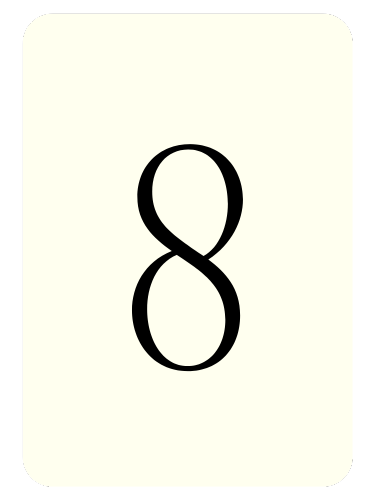
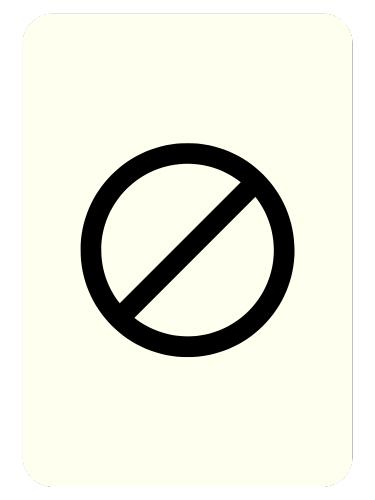
feat: added two special card -BETA

Changed region(s): [[0.2053, 0.27, 0.792, 0.75]]

diff --git a/src/application/GameScene.java b/src/application/GameScene.java
@@ -309,14 +309,27 @@ public class GameScene {
 	        
 	        writer.close();
 	        
-	        if(this.currentPlayerIndex < this.playerArray.size() - 1) {
-	        	this.currentPlayerIndex = this.currentPlayerIndex + 1;
-	        } else {
-	        	this.currentPlayerIndex = 0;
-	        }
+            if(this.gameCard.toString().contains("9")) {
+		        if(this.currentPlayerIndex < this.playerArray.size() - 2) {
+		        	this.currentPlayerIndex = this.currentPlayerIndex + 2;
+		        } else {
+		        	this.currentPlayerIndex = 0;
+		        }
+		        
+		        System.out.println("CURRENT INDEX: " + this.currentPlayerIndex);
+		        
+		        this.currentPlayer = this.playerArray.get(this.currentPlayerIndex);
+            } else {
+		        if(this.currentPlayerIndex < this.playerArray.size() - 1) {
+		        	this.currentPlayerIndex = this.currentPlayerIndex + 1;
+		        } else {
+		        	this.currentPlayerIndex = 0;
+		        }
+		        
+		        this.currentPlayer = this.playerArray.get(this.currentPlayerIndex);
+            }
 	        
 	        System.out.println(this.currentPlayerIndex + " ---- " + this.playerArray.get(this.currentPlayerIndex));
-	        this.currentPlayer = this.playerArray.get(this.currentPlayerIndex);
 	        this.getPlayerCard();
 	        
 	        
@@ -333,6 +346,8 @@ public class GameScene {
 			valid = Integer.parseInt(this.gameCard) + 1;
 		}
 		if(this.gameCard.contains("9")) { valid = card; }
+		if(this.gameCard.contains("7")) { valid = card; }
+		if(this.gameCard.contains("8")) { valid = card; }
 		
 		if(this.gameCard.equals("back") || card == valid) {
 			this.gameCard = card.toString();
@@ -408,14 +423,26 @@ public class GameScene {
 	            }
 	            
 	            writer.close();
-	           
-		        if(this.currentPlayerIndex < this.playerArray.size() - 1) {
-		        	this.currentPlayerIndex = this.currentPlayerIndex + 1;
-		        } else {
-		        	this.currentPlayerIndex = 0;
-		        }
-		        
-		        this.currentPlayer = this.playerArray.get(this.currentPlayerIndex);
+	            
+	            if(card.toString().contains("9")) {
+			        if(this.currentPlayerIndex < this.playerArray.size() - 2) {
+			        	this.currentPlayerIndex = this.currentPlayerIndex + 2;
+			        } else {
+			        	this.currentPlayerIndex = 0;
+			        }
+			        
+			        System.out.println("CURRENT INDEX: " + this.currentPlayerIndex);
+			        
+			        this.currentPlayer = this.playerArray.get(this.currentPlayerIndex);
+	            } else {
+			        if(this.currentPlayerIndex < this.playerArray.size() - 1) {
+			        	this.currentPlayerIndex = this.currentPlayerIndex + 1;
+			        } else {
+			        	this.currentPlayerIndex = 0;
+			        }
+			        
+			        this.currentPlayer = this.playerArray.get(this.currentPlayerIndex);
+	            }
 		        this.getPlayerCard();
 	        } catch (IOException e) {
 	            e.printStackTrace();
@@ -502,14 +529,26 @@ public class GameScene {
 		            }
 		            
 		            writer.close();
-		           
-			        if(this.currentPlayerIndex < this.playerArray.size() - 1) {
-			        	this.currentPlayerIndex = this.currentPlayerIndex + 1;
-			        } else {
-			        	this.currentPlayerIndex = 0;
-			        }
-			        
-			        this.currentPlayer = this.playerArray.get(this.currentPlayerIndex);
+		            
+		            if(this.gameCard.toString().contains("9")) {
+				        if(this.currentPlayerIndex < this.playerArray.size() - 2) {
+				        	this.currentPlayerIndex = this.currentPlayerIndex + 2;
+				        } else {
+				        	this.currentPlayerIndex = 0;
+				        }
+				        
+				        System.out.println("CURRENT INDEX: " + this.currentPlayerIndex);
+				        
+				        this.currentPlayer = this.playerArray.get(this.currentPlayerIndex);
+		            } else {
+				        if(this.currentPlayerIndex < this.playerArray.size() - 1) {
+				        	this.currentPlayerIndex = this.currentPlayerIndex + 1;
+				        } else {
+				        	this.currentPlayerIndex = 0;
+				        }
+				        
+				        this.currentPlayer = this.playerArray.get(this.currentPlayerIndex);
+		            }
 			        this.getPlayerCard();
 		        } catch (IOException e) {
 		            e.printStackTrace();
